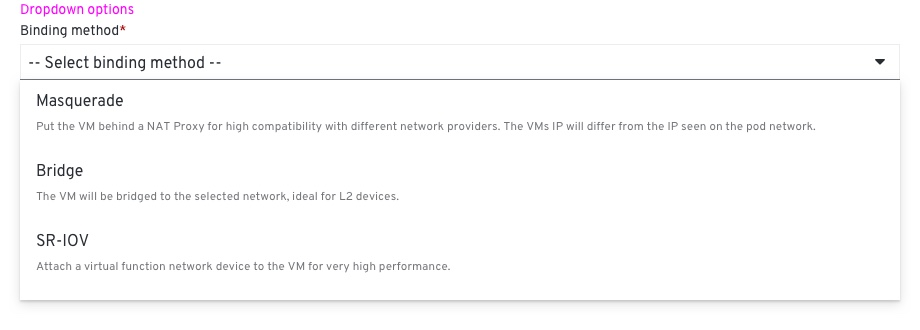
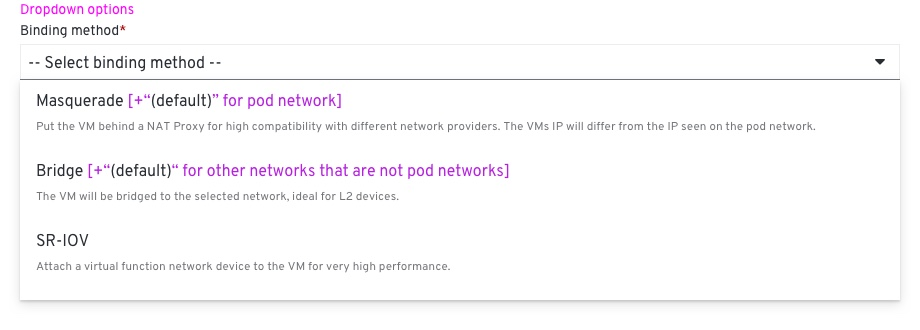
adding recommendations and defaults to fields within the disk advanced drawer

Changed region(s): [[0.0913, 0.4848, 0.5783, 0.5455], [0.1217, 0.2727, 0.3652, 0.3333]]

diff --git a/designs/virtualization/4.x/create-vm-dropdowns/create-vm-dropdowns.md b/designs/virtualization/4.x/create-vm-dropdowns/create-vm-dropdowns.md
@@ -91,6 +91,10 @@ ViritIO marked as (recommended)
 ![Create VM - Networking -Binding](img/2-4.jpg)
 'Binding method' dropdown options (previously 'Type')
 
+This field's default is dependent on the Network field.
+For 'Pod network' the default option will be 'Masquerade'.
+For other Network option, the default will be 'Birgde'.
+
 ## Storage
 
 ![Create VM - Storage -list](img/3-0.jpg)
